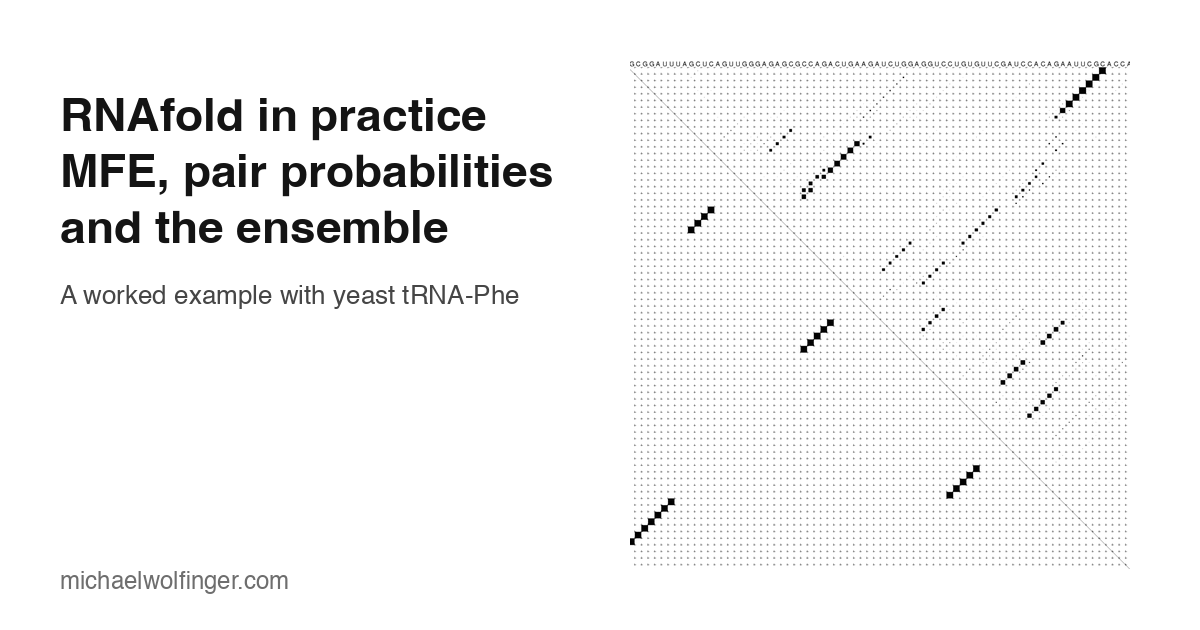
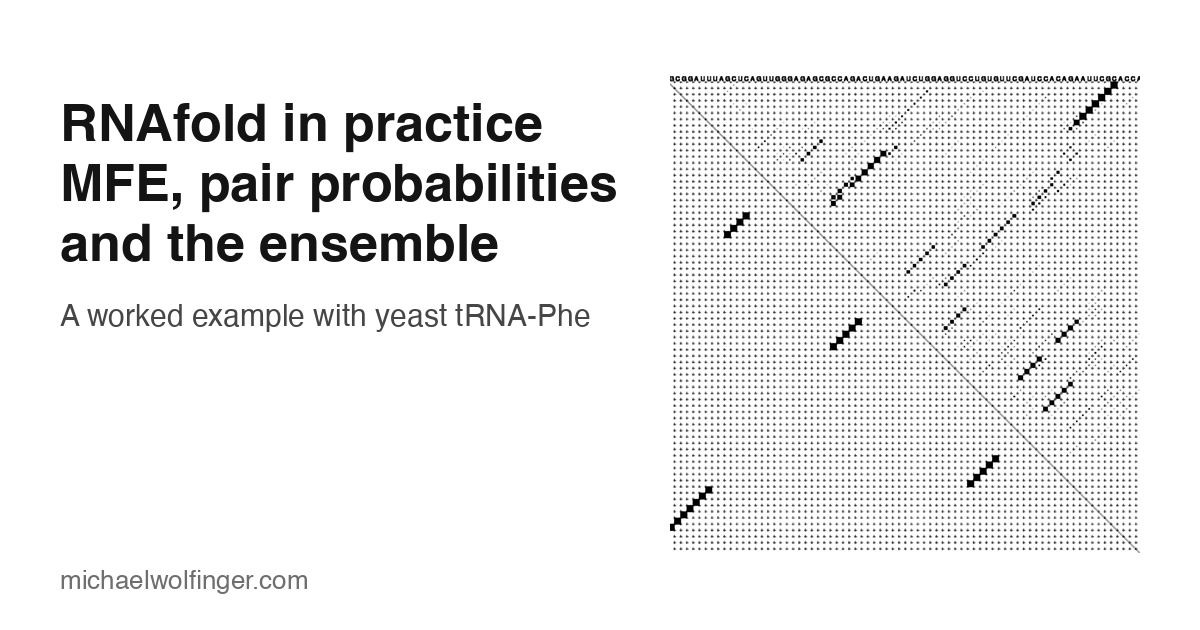
Share cards with thicker line art and larger type
LinkedIn downscales the card to about half its width and recompresses it,
which blurred the thin strokes of the structure drawing and the dot plot.
Both cards now use thickened line art and larger titles. The training card
gets a new filename so that LinkedIn fetches it afresh instead of serving
its cached copy.

diff --git a/content/blog/2026-10-28-viennarna-training-workshops-2027.rst b/content/blog/2026-10-28-viennarna-training-workshops-2027.rst
@@ -9,7 +9,7 @@ ViennaRNA training and workshops for researchers, starting in 2027
 :title: ViennaRNA training and workshops for researchers, starting in 2027
 :summary: A series of practical ViennaRNA training modules and workshops is in preparation at RNA Forecast, planned to begin in early 2027. The training is for researchers who use RNA structure prediction in their own work and want to understand the results well enough to base decisions on them. The waiting list is open.
 :description: Practical ViennaRNA training modules and workshops for experimental and computational researchers, planned for early 2027 at RNA Forecast. Waiting list open.
-:social_image: {static}/static/og-viennarna-training-1200x630.png
+:social_image: {static}/static/og-viennarna-training-2027-1200x630.png
 
 .. role:: link-flat(link)
   :class: m-flat m-text
